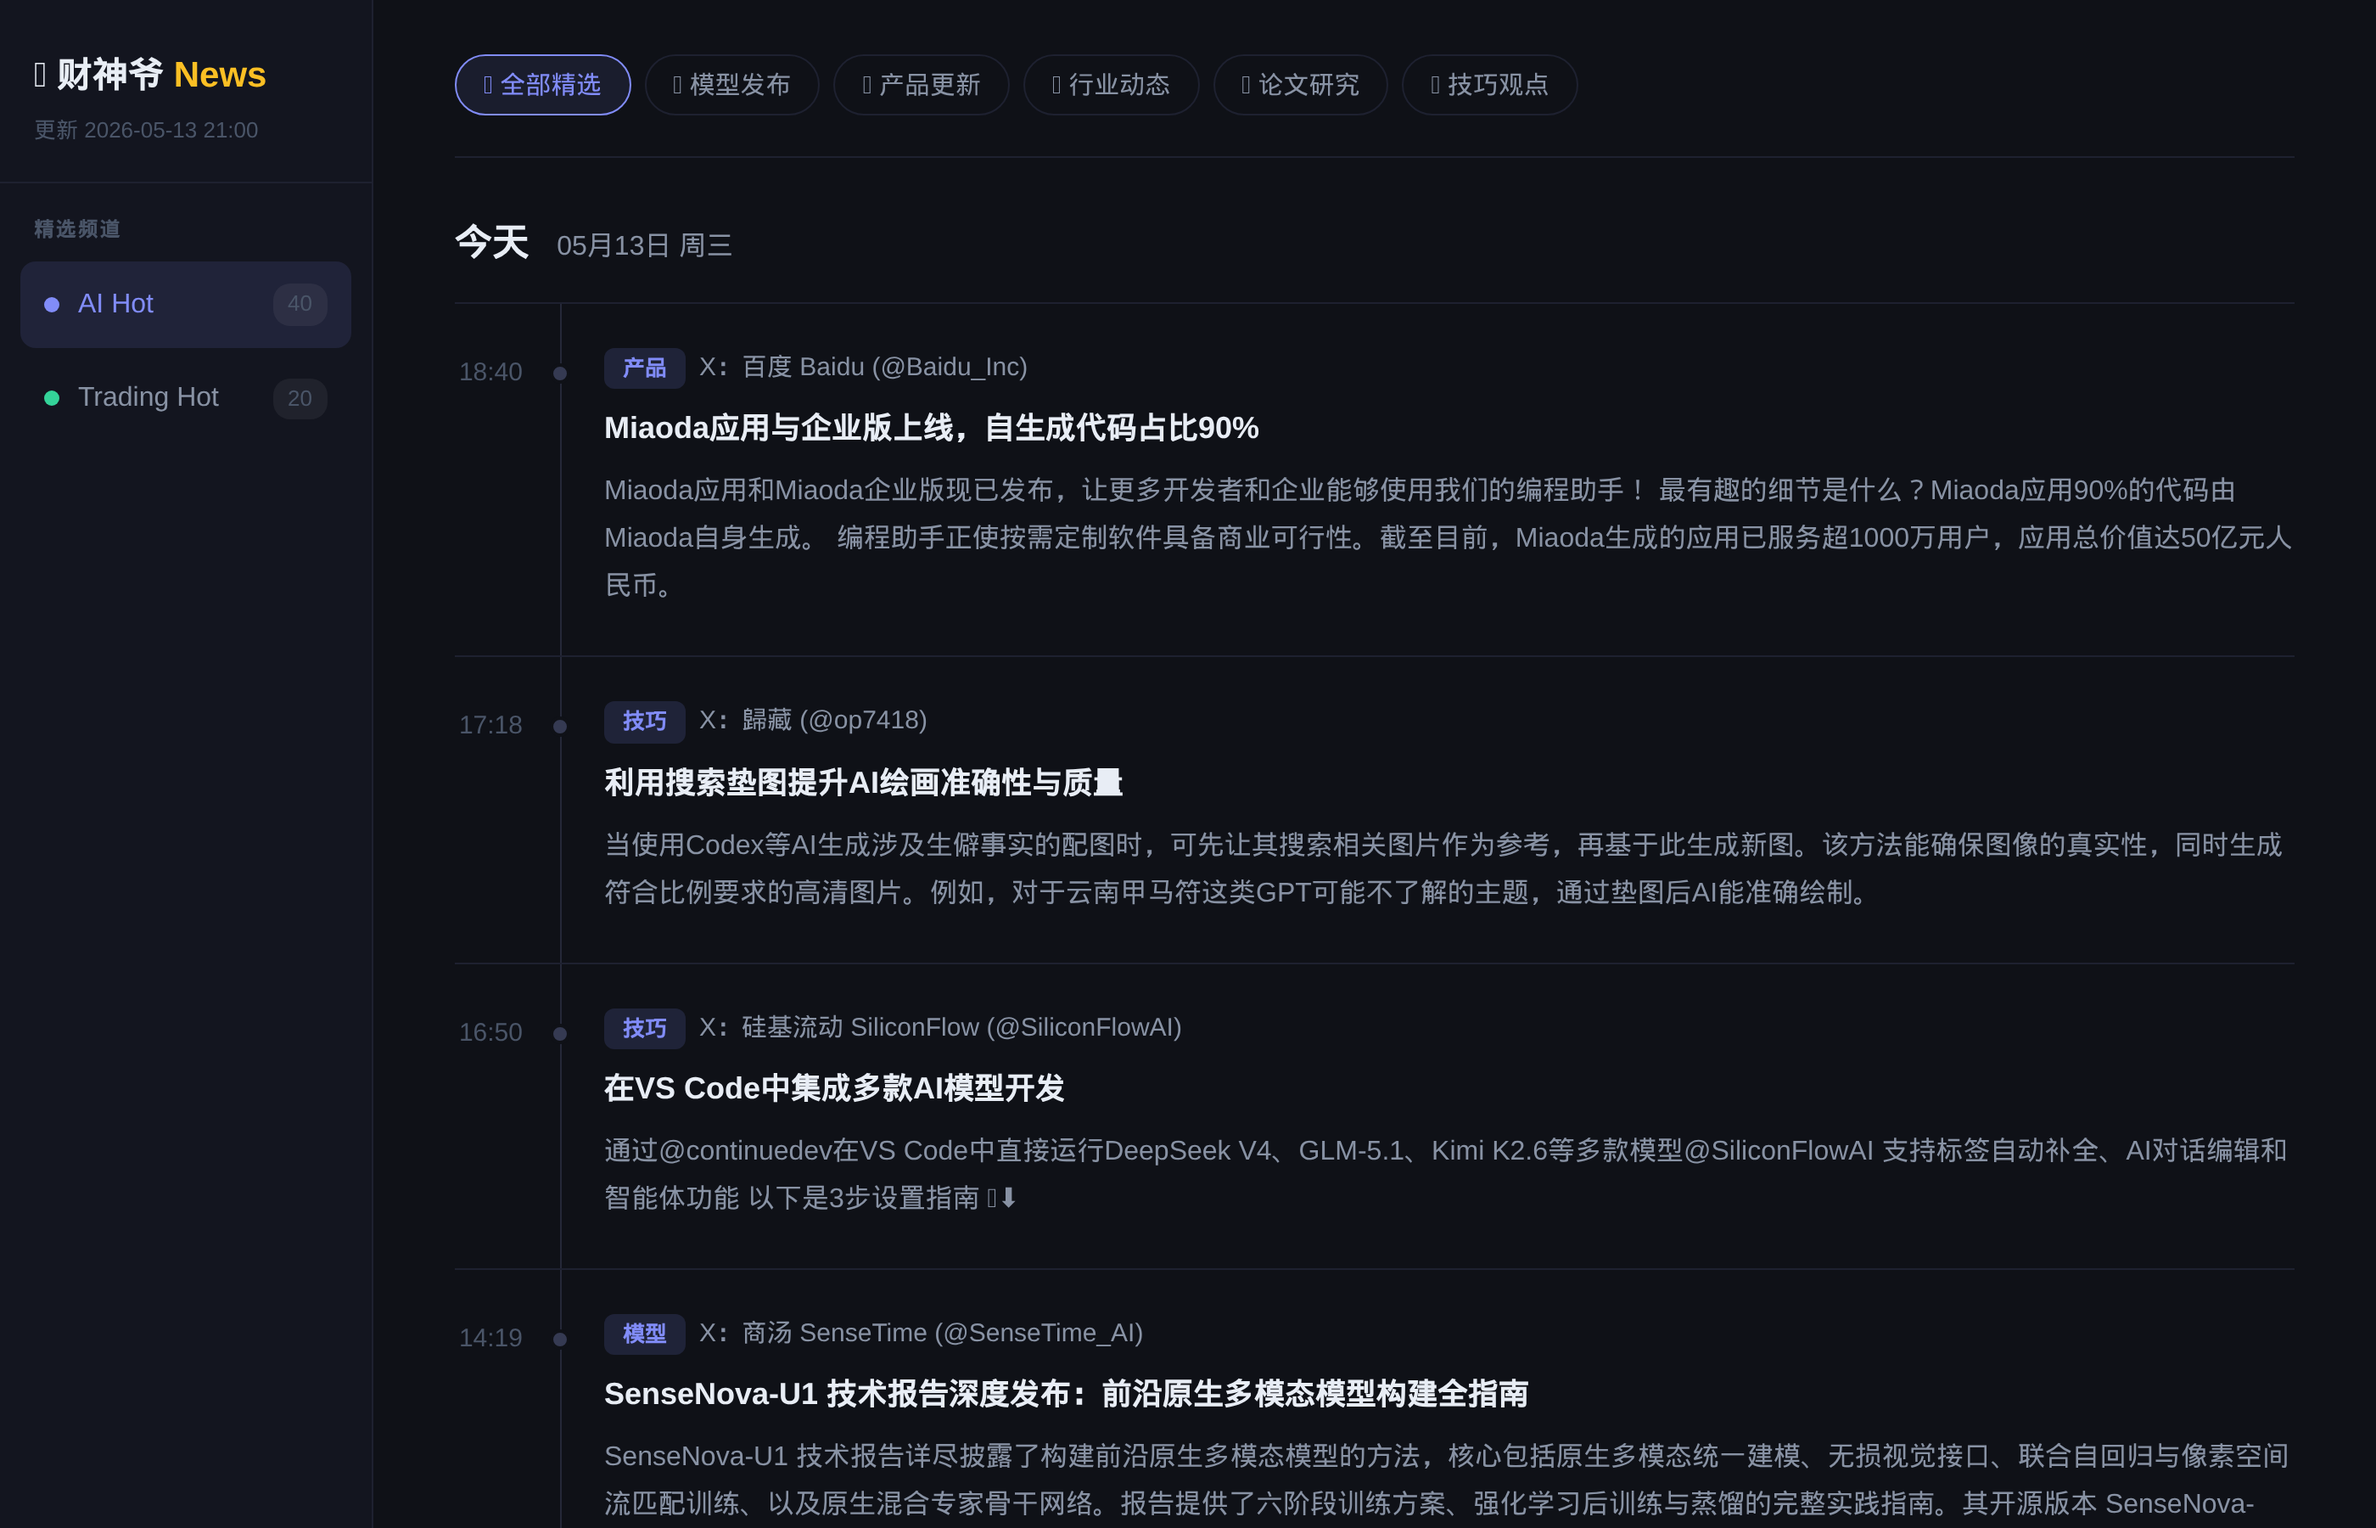
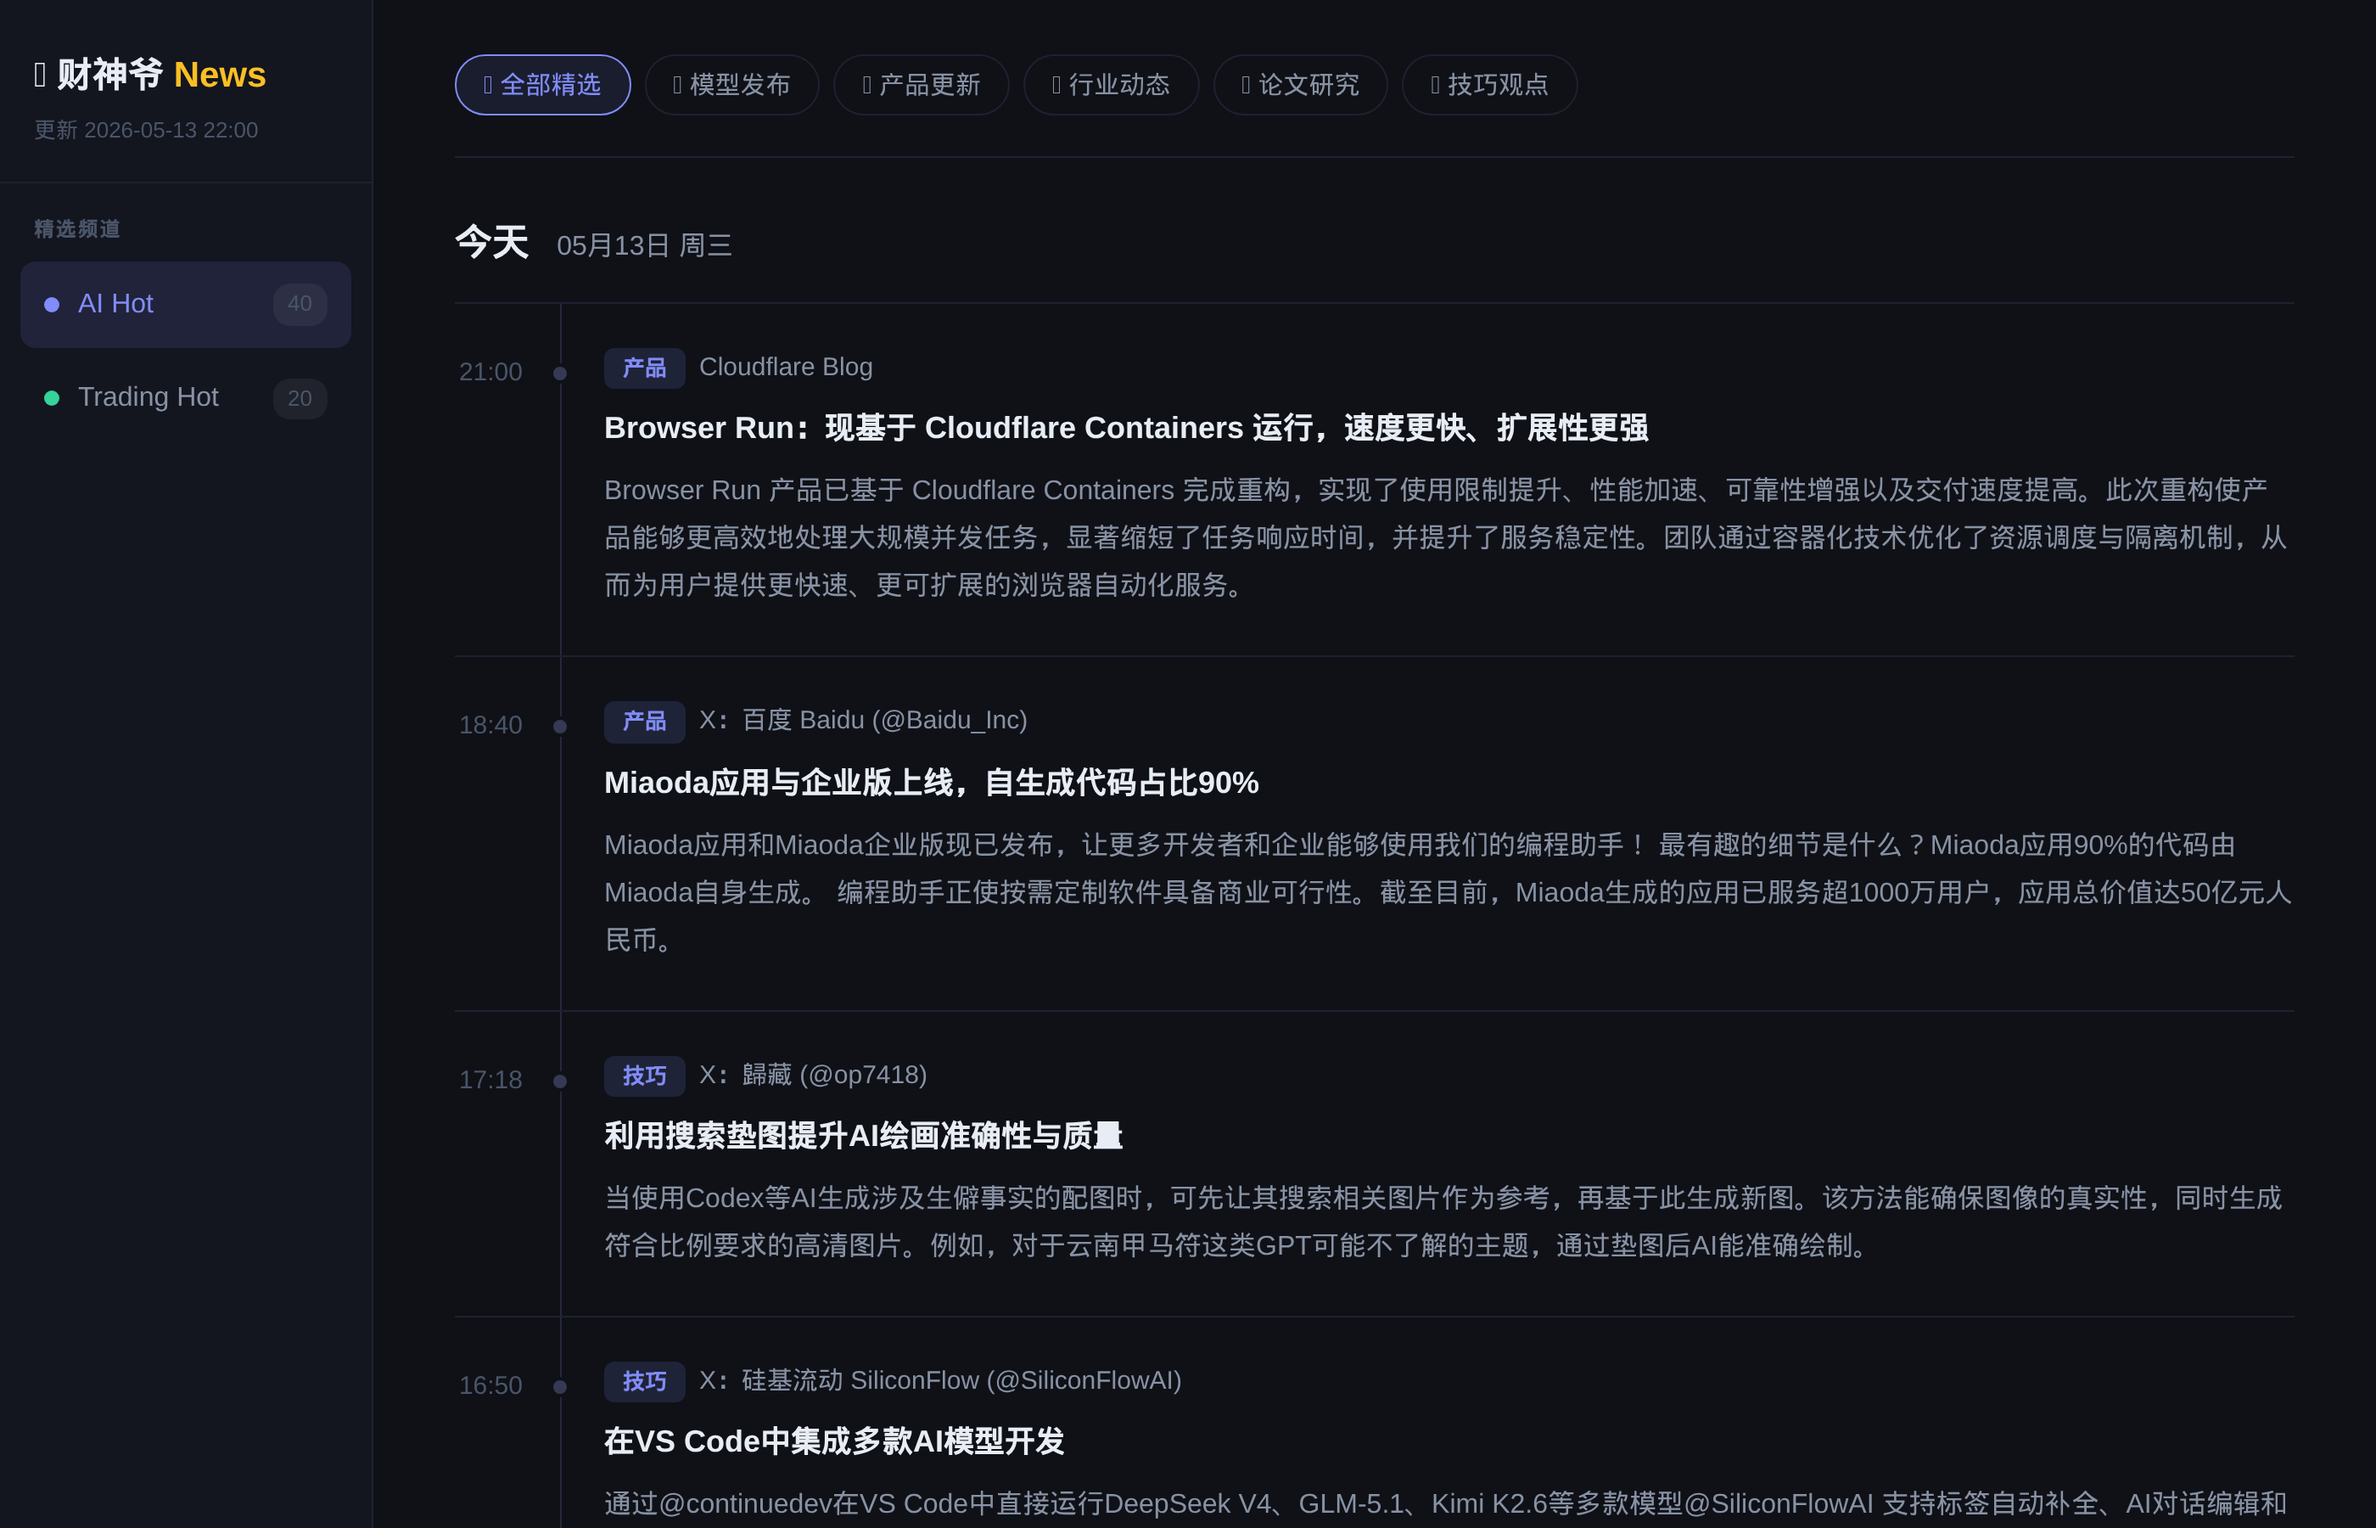
auto update 2026-05-13 22:00

diff --git a/index.html b/index.html
@@ -106,7 +106,7 @@ body{font-family:-apple-system,BlinkMacSystemFont,"Segoe UI","PingFang SC","Micr
 <body>
 <aside class="sb">
   <div class="sb-logo">💰 财神爷 <span>News</span>
-    <div class="sb-up">更新 2026-05-13 21:00</div>
+    <div class="sb-up">更新 2026-05-13 22:00</div>
   </div>
   <nav class="sb-nav">
     <div class="nav-lbl">精选频道</div>
@@ -124,6 +124,15 @@ body{font-family:-apple-system,BlinkMacSystemFont,"Segoe UI","PingFang SC","Micr
         <div class="dgroup">
       <div class="dheader">今天 <span class='dsub'>05月13日 周三</span></div>
       <div class="ilist">
+      <div class="item" data-cats="ai-products">
+        <div class="item-time">21:00</div>
+        <div class="item-body">
+          <div class="item-meta"><span class="badge badge-ai">产品</span><span class="isrc">Cloudflare Blog</span></div>
+          <a class="item-title" href="https://blog.cloudflare.com/browser-run-containers" target="_blank" rel="noopener">Browser Run：现基于 Cloudflare Containers 运行，速度更快、扩展性更强</a>
+          <div class="item-summary">Browser Run 产品已基于 Cloudflare Containers 完成重构，实现了使用限制提升、性能加速、可靠性增强以及交付速度提高。此次重构使产品能够更高效地处理大规模并发任务，显著缩短了任务响应时间，并提升了服务稳定性。团队通过容器化技术优化了资源调度与隔离机制，从而为用户提供更快速、更可扩展的浏览器自动化服务。</div>
+        </div>
+      </div>
+
       <div class="item" data-cats="ai-products">
         <div class="item-time">18:40</div>
         <div class="item-body">
@@ -522,19 +531,6 @@ https：//x.com/browser_use/status/2054330495249564094/video/1</div>
           <div class="item-summary">Statewright 是一个通过状态机为AI智能体提供约束的系统，能控制其在各阶段可使用的工具，从而聚焦推理并提升可靠性。它将工作流定义为规划、实施、测试等多个阶段，自动执行工具限制与状态转换。在本地模型测试中，两个模型在5项SWE-bench子任务上应用约束后，正确率从2/10显著提升至10/10。该系统已集成到Claude Code等平台，一个修复测试失败的典型工作流可在46秒内完成。</div>
         </div>
       </div>
-
-      <div class="item" data-cats="industry">
-        <div class="item-time">21:50</div>
-        <div class="item-body">
-          <div class="item-meta"><span class="badge badge-ai">行业</span><span class="isrc">X：Demis Hassabis (@demishassabis)</span></div>
-          <a class="item-title" href="https://x.com/demishassabis/status/2054197462101889277" target="_blank" rel="noopener">人工智能首要应用应是改善人类健康</a>
-          <div class="item-summary">我一直认为人工智能的首要应用应该是改善人类健康。
-
-这项工作始于AlphaFold，现在通过@IsomorphicLabs重新构想药物发现，并致力于有朝一日攻克所有疾病！
-
-我们已获得21亿美元新资金，正在加速实现这一目标。</div>
-        </div>
-      </div>
       </div>
     </div>
   </div>
@@ -543,7 +539,7 @@ https：//x.com/browser_use/status/2054330495249564094/video/1</div>
         <div class="dgroup">
       <div class="dheader">今天 <span class='dsub'>05月13日 周三</span></div>
       <div class="ilist">
-      <div class="item" data-cats="top crypto">
+      <div class="item" data-cats="crypto top">
         <div class="item-time">04:56</div>
         <div class="item-body">
           <div class="item-meta"><span class="badge badge-trading">加密</span><span class="score-badge">72分</span><span class="isrc">The Block</span><span class="ticker">$C</span><span class="ticker">$COIN</span></div>
@@ -563,7 +559,7 @@ https：//x.com/browser_use/status/2054330495249564094/video/1</div>
         </div>
       </div>
 
-      <div class="item" data-cats="ai_tech top crypto">
+      <div class="item" data-cats="crypto top ai_tech">
         <div class="item-time">04:46</div>
         <div class="item-body">
           <div class="item-meta"><span class="badge badge-trading">加密</span><span class="score-badge">68分</span><span class="isrc">Decrypt</span><span class="ticker">$F</span></div>
@@ -583,7 +579,7 @@ https：//x.com/browser_use/status/2054330495249564094/video/1</div>
         </div>
       </div>
 
-      <div class="item" data-cats="ai_tech top">
+      <div class="item" data-cats="top ai_tech">
         <div class="item-time">04:36</div>
         <div class="item-body">
           <div class="item-meta"><span class="badge badge-trading">市场异动</span><span class="score-badge">67分</span><span class="isrc">MarketWatch Top Stories</span><span class="ticker">$V</span></div>
@@ -613,7 +609,7 @@ https：//x.com/browser_use/status/2054330495249564094/video/1</div>
         </div>
       </div>
 
-      <div class="item" data-cats="ai_tech top crypto">
+      <div class="item" data-cats="crypto top ai_tech">
         <div class="item-time">03:45</div>
         <div class="item-body">
           <div class="item-meta"><span class="badge badge-trading">加密</span><span class="score-badge">69分</span><span class="isrc">Decrypt</span><span class="ticker">$BTC</span><span class="ticker">$MARA</span></div>
@@ -727,7 +723,7 @@ https：//x.com/browser_use/status/2054330495249564094/video/1</div>
         </div>
       </div>
 
-      <div class="item" data-cats="top crypto">
+      <div class="item" data-cats="crypto top">
         <div class="item-time">22:37</div>
         <div class="item-body">
           <div class="item-meta"><span class="badge badge-trading">加密</span><span class="score-badge">70分</span><span class="isrc">Decrypt</span><span class="ticker">$C</span></div>
@@ -737,7 +733,7 @@ https：//x.com/browser_use/status/2054330495249564094/video/1</div>
         </div>
       </div>
 
-      <div class="item" data-cats="top crypto">
+      <div class="item" data-cats="crypto top">
         <div class="item-time">19:55</div>
         <div class="item-body">
           <div class="item-meta"><span class="badge badge-trading">加密</span><span class="score-badge">75分</span><span class="isrc">Decrypt</span><span class="ticker">$C</span></div>
